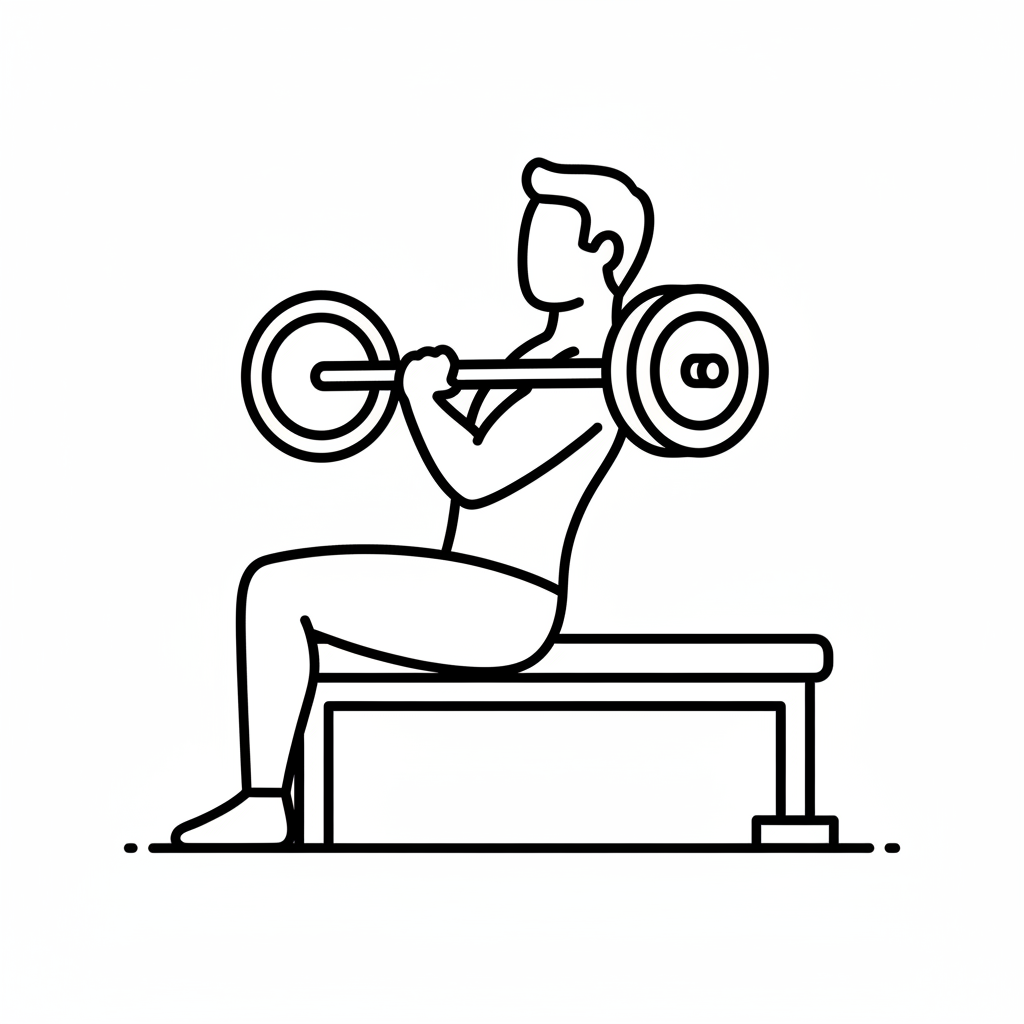
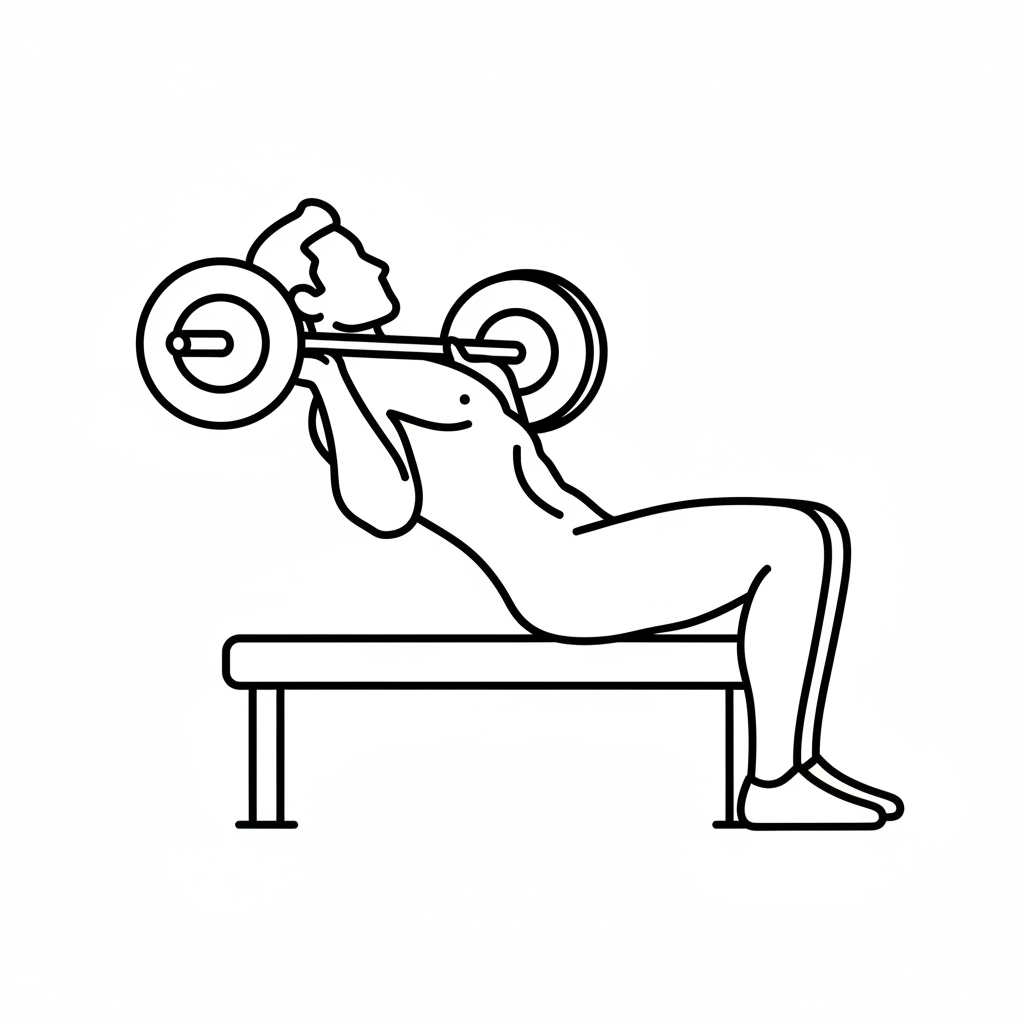
Checkpoint: Updated hip thrust exercise illustration: - Regenerated the hip thrust image to show a person with a barbell positioned across their hips - Barbell now clearly visible with circular weight plates on each end - Person is seated on bench with hips thrust upward, holding the barbell - Maint

Changed region(s): [[0.125, 0.1562, 0.9062, 0.8438]]

diff --git a/todo.md b/todo.md
@@ -128,3 +128,6 @@
 - [x] Create animation component to display exercises
 - [x] Integrate animations into active workout screen
 - [x] Test animations on different screen sizes
+
+## Phase 19: Exercise Illustration Updates
+- [x] Regenerate hip thrust illustration with barbell over hips
